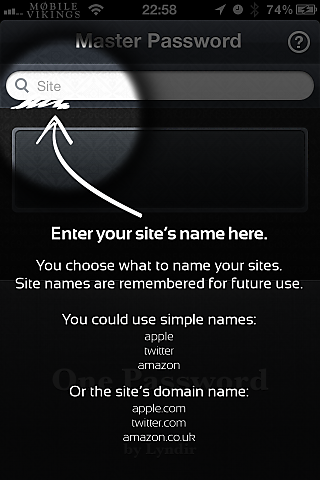
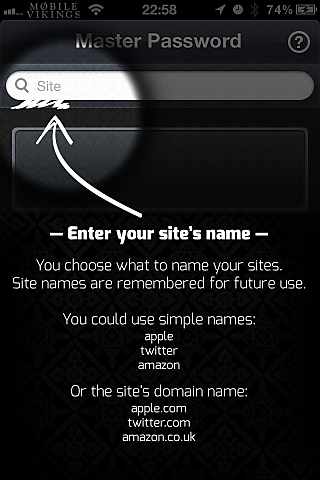
Show guide only first time + improved guide docs.

Changed region(s): [[0.0312, 0.4688, 0.9688, 0.625], [0.1875, 0.6562, 0.8125, 0.9375]]

diff --git a/Sources/OPMainViewController.m b/Sources/OPMainViewController.m
@@ -76,7 +76,7 @@
 }
 
 - (void)viewWillDisappear:(BOOL)animated {
-
+    
     [super viewWillDisappear:animated];
     
     self.searchTipContainer.hidden = YES;
@@ -85,10 +85,11 @@
 - (void)viewDidLoad {
     
     // Put the search tip on the window so it's above the nav bar.
-//    [self.searchTipContainer removeFromSuperview];
-//    [[UIApplication sharedApplication].keyWindow addSubview:self.searchTipContainer];
-//    self.searchTipContainer.frame = CGRectSetY(self.searchTipContainer.frame, self.searchTipContainer.frame.origin.y
-//                                               + self.navigationController.navigationBar.frame.size.height /* Nav */ + 20 /* Status */);
+    CGRect newFrame = [self.navigationController.navigationBar convertRect:self.searchTipContainer.frame
+                                                                  fromView:self.searchTipContainer.superview];
+    [self.searchTipContainer removeFromSuperview];
+    [self.navigationController.navigationBar addSubview:self.searchTipContainer];
+    self.searchTipContainer.frame = newFrame;
     self.searchTipContainer.hidden = YES;
     
     // Because IB's edit button doesn't auto-toggle self.editable like editButtonItem does.

diff --git a/Sources/OPConfig.m b/Sources/OPConfig.m
@@ -10,7 +10,7 @@
 
 @implementation OPConfig
 
-@dynamic dataStoreError, storeKeyPhrase, rememberKeyPhrase, forgetKeyPhrase, helpHidden;
+@dynamic dataStoreError, storeKeyPhrase, rememberKeyPhrase, forgetKeyPhrase, helpHidden, showQuickstart;
 
 
 - (id)init {
@@ -24,6 +24,7 @@
                                      [NSNumber numberWithBool:YES],                                 NSStringFromSelector(@selector(rememberKeyPhrase)),
                                      [NSNumber numberWithBool:NO],                                  NSStringFromSelector(@selector(forgetKeyPhrase)),
                                      [NSNumber numberWithBool:NO],                                  NSStringFromSelector(@selector(helpHidden)),
+                                     [NSNumber numberWithBool:YES],                                  NSStringFromSelector(@selector(showQuickstart)),
                                      nil]];
     
     return self;

diff --git a/Sources/OPConfig.h b/Sources/OPConfig.h
@@ -13,6 +13,7 @@
 @property (nonatomic, retain) NSNumber *rememberKeyPhrase;
 @property (nonatomic, retain) NSNumber *forgetKeyPhrase;
 @property (nonatomic, retain) NSNumber *helpHidden;
+@property (nonatomic, retain) NSNumber *showQuickstart;
 
 + (OPConfig *)get;
 

diff --git a/Sources/OPAppDelegate.m b/Sources/OPAppDelegate.m
@@ -121,7 +121,7 @@
 }
 - (void)applicationDidBecomeActive:(UIApplication *)application {
     
-    if ([[OPConfig get].firstRun boolValue])
+    if ([[OPConfig get].showQuickstart boolValue])
         [self showGuide];
     else
         [self loadKeyPhrase];

diff --git a/Sources/OPGuideViewController.m b/Sources/OPGuideViewController.m
@@ -28,6 +28,7 @@
     
     [super viewWillDisappear:animated];
     
+    [OPConfig get].showQuickstart = [NSNumber numberWithBool:NO];
     [[OPAppDelegate get] loadKeyPhrase];
 }
 
